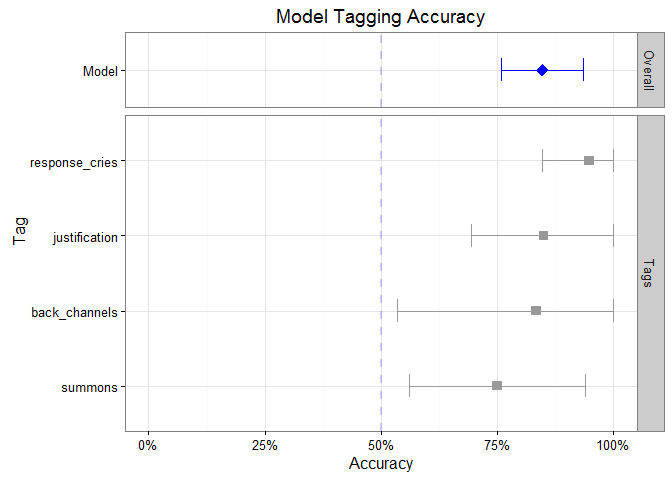
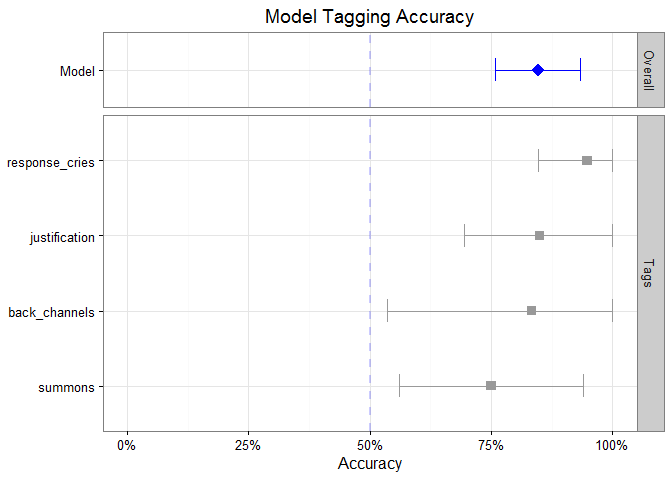
Removed y axis lab in plot.validate_model

diff --git a/README.md b/README.md
@@ -1394,7 +1394,7 @@ confidence band is highly affected by the number of samples per tag).
     ## 
     ## 
     ## ---------------
-    ## Individual tags:
+    ## Individual Tags:
     ## ---------------
     ##               tag accuracy  n  se lower  upper
     ## 1: response_cries    94.7% 19 .05 84.7% 100.0%
